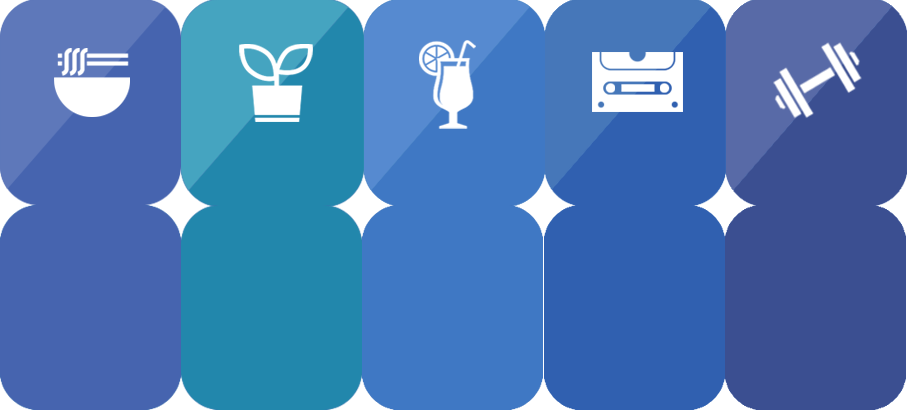
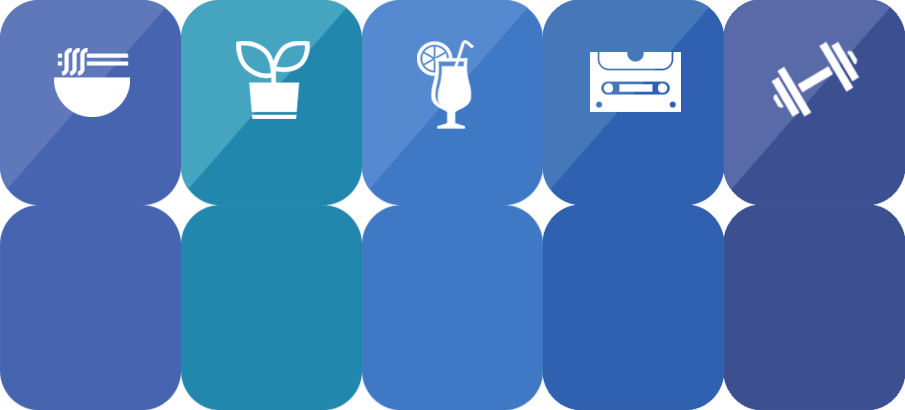
这是公布测试网址后的第二次优化，主要优化了主页的毛边，详情页的评论接口，添加成功和没有店铺页面的宽度

diff --git a/src/components/mainPage.vue b/src/components/mainPage.vue
@@ -20,7 +20,7 @@
               <ul>
                 <li v-for="item2 in item1.subTitle"><router-link v-bind:to="'storeList/' + item2">{{item2}}</router-link></li>
               </ul>
-              <div class="img-div-a" v-bind:style="{transform:'scale('+5*rem/181+')',backgroundPosition:'-'+index*181 +'px -205px'}"></div>
+              <div class="img-div-a" v-bind:style="{transform:'scale('+5*rem/181+')',backgroundPosition:'-'+index*181 +'px -204px'}"></div>
             </div>
             <div class="img-div" v-bind:style="{transform:'scale('+5*rem/181+')',backgroundPosition:'-'+index*181 +'px 0'}"></div>
             <h3>{{item1.title}}</h3>
@@ -33,7 +33,7 @@
       <div>
         <div class="back"></div>
         <div class="mainpage-bottom">
-          <router-link v-for="item3 in data.list2" v-bind:to="'storeList/' + item3">{{item3}}</router-link>
+          <router-link v-for="item3 in data.list2" v-bind:to="'storeDetail/' + item3">{{item3}}</router-link>
         </div>
       </div>
     </div>
@@ -139,9 +139,9 @@ div.mainpage-body h3{
   bottom:0.5rem;
   text-align: center;
   width:5rem;
-  font-weight: 600;
   color:#FFF;
   z-index: 11;
+  font-weight: 400;
 }
 div.mainpage-body div.column{
   width:100%;
@@ -482,7 +482,7 @@ export default{
     img3.src = "/static/img/columns.png";
     img3.onload = function(){n++;if(n>=4){vue_this.loaded = true;}console.log(n)};
     img1 = img2 = img3 =null;
-    axios.get('mainPageData.php')
+    /*axios.get('mainPageData.php')
       .then(function (response) {
         console.log(response);
         response=response.data;
@@ -495,8 +495,8 @@ export default{
         console.log(error);
         if(error)alert("主页加载失败！");
         vue_this.loaded = true;
-      });
-    /*vue_this.data={
+      });*/
+    vue_this.data={
       "topic":"这是头条推文这是头条推文",
       "list1":[
         {
@@ -515,7 +515,9 @@ export default{
         "\u6c27\u6c14\u5382",
         "SB\u9a7e\u6821",
         "\u7ec5\u5b9d"]
-    };*/
+    };
+    n++;
+    if(n>=4){vue_this.loaded = true;}
 
   }
 }

diff --git a/src/components/storeDetail.vue b/src/components/storeDetail.vue
@@ -509,6 +509,18 @@ div.store-detail-footer>a>span {
      vue_this.detail=response.data;
      vue_this.detail.picURLs_ =vue_this.detail.picURLs.slice(0,3);
      vue_this.firstChosen = true;
+     vue_this.detail.comments = [];
+     axios.get('commentsList.php?id='+vue_this.$route.params.id)
+       .then(function (response) {
+         response=response.data;
+         vue_this.detail.comments = response.data;
+         vue_this.loaded = true;
+       })
+       .catch(function (error) {
+         if(error)alert("加载失败！");
+         vue_this.loaded = true;
+       });
+
      vue_this.loaded = true;
      })
      .catch(function (error) {

diff --git a/src/components/noStore.vue b/src/components/noStore.vue
@@ -39,8 +39,8 @@
     margin:0 auto;
   }
   div.add-failed-root img{
-    width:17.2rem;
-    height:16.2rem;
+    width:14.3rem;
+    height:13.5rem;
   }
   div.add-failed-root button{
     background: url("../assets/noStore/blank_button.png");

diff --git a/src/components/addSuccess.vue b/src/components/addSuccess.vue
@@ -39,8 +39,8 @@ div.add-success-root p{
   margin:0 auto;
 }
 div.add-success-root img{
-  width:17.2rem;
-  height:12rem;
+  width:14.3rem;
+  height:10rem;
 }
 div.add-success-root button{
   background: url("../assets/addSuccess/back.png");
